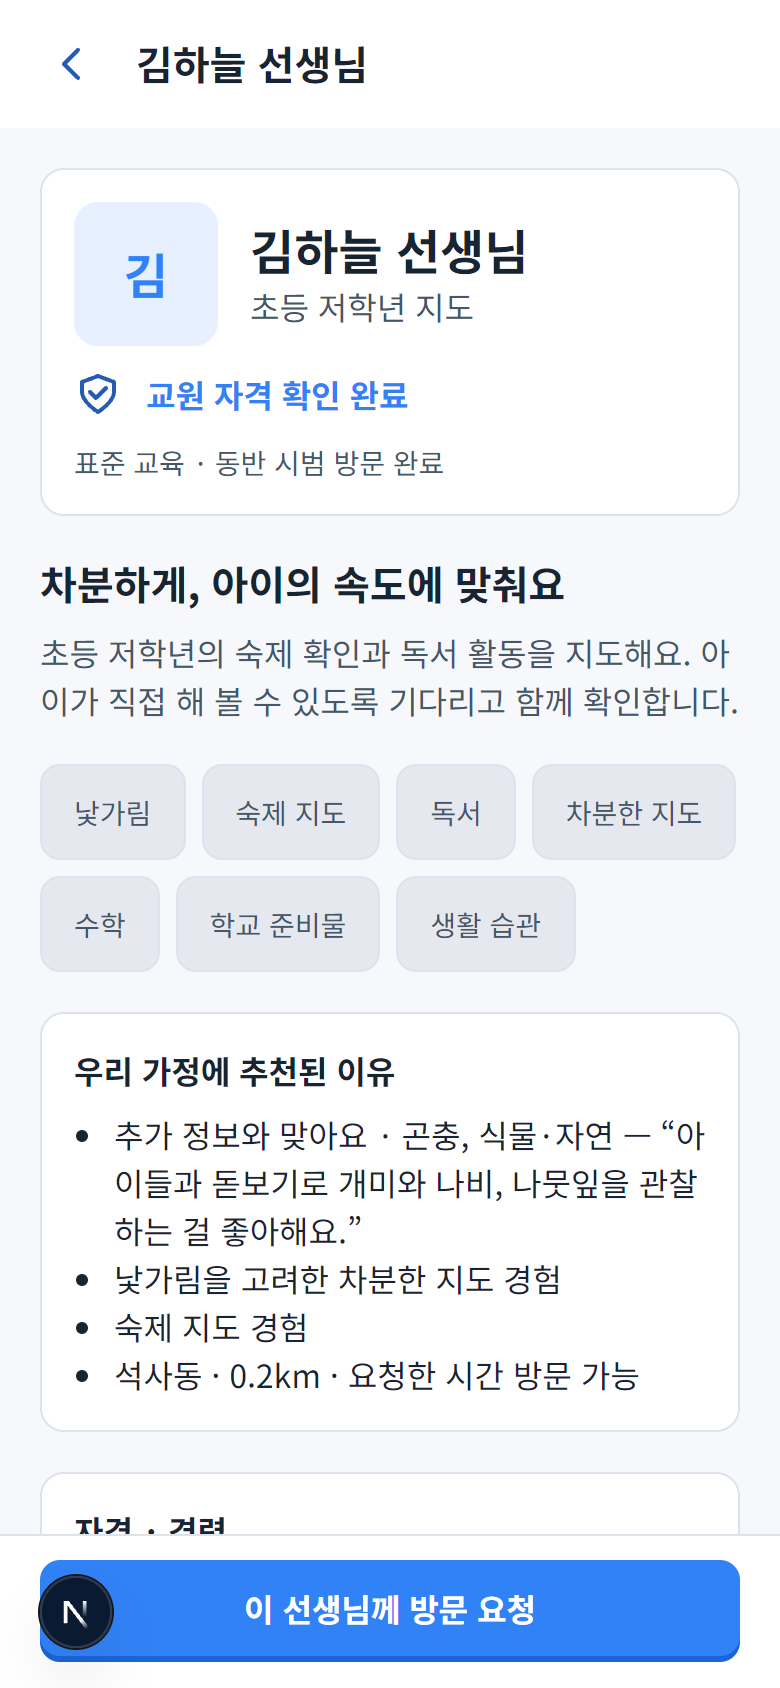
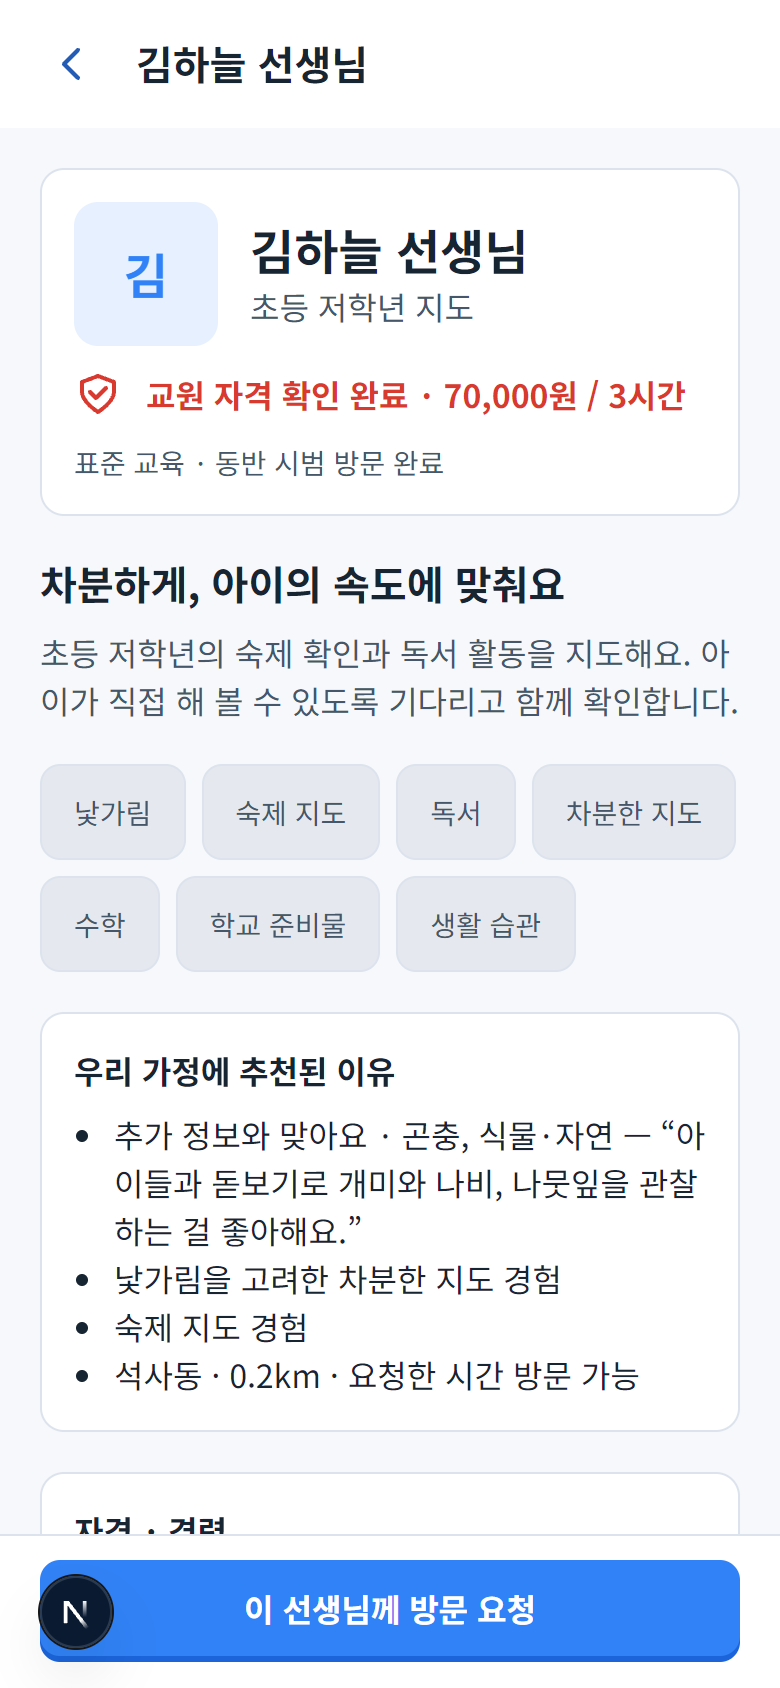
S03 tag colours by kind, S04 % score + qualification tiers with prices, weekend availability
- S03: tag chips coloured by category — blue 성향·특성, green 지도 능력·이력,
  yellow 교과목 — with a small legend.
- S04/S05: match score shown as %, qualification tier coloured
  (교원 자격 red / 아동 지도 자격 blue / 일반 경력·신원 검증 green) with the
  3-hour price per tier (70,000 / 60,000 / 50,000; 정기 −10,000). Prices now
  come from the teacher tier on the API (`price_single`, `price_regular`) and
  are used when creating a visit.
- A04: 토·일 added to available days; seed gains weekend availability and
  four general-tier teachers.

Changed region(s): [[0.5538, 0.2156, 0.8923, 0.2464], [0.1846, 0.2156, 0.5231, 0.2464], [0.0923, 0.2156, 0.1538, 0.2464]]

diff --git a/apps/web/src/app/g/recommend/page.tsx b/apps/web/src/app/g/recommend/page.tsx
@@ -5,8 +5,8 @@ import { useRouter } from "next/navigation";
 import { useEffect, useState } from "react";
 import { Icon } from "@/components/Icon";
 import { Page } from "@/components/shell";
-import { AppBarDetail, Avatar, BottomAction, Button, Card, ErrorText, Loading, cx } from "@/components/ui";
-import { cityOf, loadCriteria, saveCriteria, saveReasons, shortDate, type Criteria } from "@/lib/find";
+import { AppBarDetail, Avatar, BottomAction, Button, Card, ErrorText, Loading, cx, won } from "@/components/ui";
+import { cityOf, loadCriteria, saveCriteria, saveReasons, shortDate, tierOf, type Criteria } from "@/lib/find";
 import { useSession } from "@/lib/session";
 import type { Teacher } from "@/lib/types";
 
@@ -59,6 +59,12 @@ export default function Recommend() {
           <h2 className="t20 font-bold">추천 선생님</h2>
           {list && <span className="t14 text-muted">{list.length}명</span>}
         </div>
+        <p className="t14 flex flex-wrap gap-x-3 gap-y-1 text-muted">
+          <span className="text-tier-red font-bold">● 교원 자격</span>
+          <span className="text-tier-blue font-bold">● 아동 지도 자격</span>
+          <span className="text-tier-green font-bold">● 일반 · 경력·신원 검증</span>
+          <span>· 색이 빨강일수록 금액이 높아요</span>
+        </p>
         <ErrorText>{err}</ErrorText>
         {!list ? <Loading label="조건에 맞는 선생님을 찾는 중이에요" /> : (
           <div className="flex flex-col gap-3 lg:grid lg:grid-cols-2 lg:gap-4">
@@ -72,17 +78,17 @@ export default function Recommend() {
                     <p className="t16 font-bold">{t.name} 선생님</p>
                     <p className="t14 text-muted">{t.headline} · {t.area}{t.distance_km != null ? ` ${t.distance_km}km` : ""}</p>
                   </div>
-                  <span className="t16 font-bold text-brand">{t.score}점</span>
+                  <span className="t16 font-bold text-brand">{t.score}%</span>
                 </div>
                 <ul className="t14 text-muted">
                   {t.reasons.map((r) => (
                     <li key={r} className={r.startsWith("추가 정보") ? "mb-1 rounded-md bg-blue-light px-2 py-1 text-brand" : ""}>{r}</li>
                   ))}
                 </ul>
-                <p className="t14 flex items-center gap-3 text-brand">
-                  <span className="text-brand-deep"><Icon name="shield" /></span>{t.qual_label}
-
-                </p>
+                <div className={cx("t14 flex items-center justify-between rounded-md px-2 py-1.5 font-bold", tierOf(t.qual_type).bg, tierOf(t.qual_type).text)}>
+                  <span className="flex items-center gap-2"><Icon name="shield" />{t.qual_label}</span>
+                  <span>{won(t.price_single)} <span className="font-normal">/ 3시간</span></span>
+                </div>
                 {sel === t.id && (
                   <Link href={`/g/teachers/${t.id}`} className="t14 hidden font-bold text-brand lg:block" onClick={(e) => e.stopPropagation()}>자세히 보기 →</Link>
                 )}

diff --git a/apps/web/src/app/g/find/page.tsx b/apps/web/src/app/g/find/page.tsx
@@ -4,12 +4,11 @@ import { useRouter } from "next/navigation";
 import { useEffect, useState } from "react";
 import { BottomTabs, Page, RoleSwitchLink } from "@/components/shell";
 import { AppBarRoot, BottomAction, Button, Chip, ErrorText, Field, Info, inputCls, textareaCls } from "@/components/ui";
-import { defaultCriteria, endTime, loadCriteria, saveCriteria, type Criteria } from "@/lib/find";
+import { ALL_TAGS, defaultCriteria, endTime, loadCriteria, saveCriteria, tagTone, type Criteria } from "@/lib/find";
 import { locate } from "@/lib/geo";
 import { useLive, useSession } from "@/lib/session";
 import type { Me } from "@/lib/types";
 
-const ALL_TAGS = ["낯가림", "숙제 지도", "독서", "수학", "한글·받아쓰기", "영어", "놀이형 지도", "차분한 지도", "활동적인 아이", "집중력", "생활 습관", "학교 준비물", "미술"];
 const TIMES = ["13:00", "14:00", "15:00", "16:00", "17:00"];
 
 /** S03 · 어떤 선생님을 찾으세요? (+ S03-tags) */
@@ -108,16 +107,21 @@ export default function Find() {
               <p className="t16 text-muted">요청을 적고 ‘요청에서 태그 찾기’를 누르면{"\n"}성향·과목 조건이 여기에 정리돼요.</p>
             )}
             <div className="flex flex-wrap gap-2">
-              {c.tags.map((t) => <Chip key={t} selected onRemove={() => set({ tags: c.tags.filter((x) => x !== t) })}>{t}</Chip>)}
+              {c.tags.map((t) => <Chip key={t} selected tone={tagTone(t)} onRemove={() => set({ tags: c.tags.filter((x) => x !== t) })}>{t}</Chip>)}
               <Chip onClick={() => setAdding((a) => !a)}>+ 태그 추가</Chip>
             </div>
             {adding && (
               <div className="flex flex-wrap gap-2 rounded-xl border border-soft bg-surface p-3">
                 {ALL_TAGS.filter((t) => !c.tags.includes(t)).map((t) => (
-                  <Chip key={t} onClick={() => set({ tags: [...c.tags, t] })}>{t}</Chip>
+                  <Chip key={t} selected tone={tagTone(t)} onClick={() => set({ tags: [...c.tags, t] })}>{t}</Chip>
                 ))}
               </div>
             )}
+            <p className="t14 flex flex-wrap gap-x-3 gap-y-1 text-muted">
+              <span><span className="mr-1 inline-block h-3 w-3 rounded-sm border border-brand bg-blue-light align-[-1px]" />성향·특성</span>
+              <span><span className="mr-1 inline-block h-3 w-3 rounded-sm border border-tag-green-ink bg-tag-green align-[-1px]" />지도 능력·이력</span>
+              <span><span className="mr-1 inline-block h-3 w-3 rounded-sm border border-tag-yellow-ink bg-tag-yellow align-[-1px]" />교과목</span>
+            </p>
           </div>
         </div>
         <BottomAction aboveTabs>

diff --git a/apps/web/src/lib/find.ts b/apps/web/src/lib/find.ts
@@ -60,3 +60,27 @@ export function cityOf(region: string): string {
   const parts = region.split(" ");
   return parts.length >= 2 ? parts.slice(-2).join(" ").replace(/^강원특별자치도 /, "") : region;
 }
+
+/** S03 태그 분류 — 파랑: 아이·선생님 성향, 초록: 지도 능력·이력, 노랑: 교과목 */
+export const TAG_GROUPS = {
+  blue: ["낯가림", "차분한 지도", "활동적인 아이", "집중력", "놀이형 지도"],
+  green: ["숙제 지도", "생활 습관", "학교 준비물"],
+  yellow: ["독서", "수학", "한글·받아쓰기", "영어", "미술"],
+} as const;
+export type TagTone = keyof typeof TAG_GROUPS;
+export const ALL_TAGS: string[] = [...TAG_GROUPS.blue, ...TAG_GROUPS.green, ...TAG_GROUPS.yellow];
+export function tagTone(tag: string): TagTone {
+  if ((TAG_GROUPS.green as readonly string[]).includes(tag)) return "green";
+  if ((TAG_GROUPS.yellow as readonly string[]).includes(tag)) return "yellow";
+  return "blue";
+}
+
+/** 선생님 등급 색: 교원 자격 = 빨강, 아동 지도 자격 = 파랑, 일반(경력·신원 검증) = 초록 */
+export const TIER = {
+  certified: { text: "text-tier-red", bg: "bg-tier-red-bg", border: "border-tier-red", name: "교원 자격" },
+  qualified: { text: "text-tier-blue", bg: "bg-tier-blue-bg", border: "border-tier-blue", name: "아동 지도 자격" },
+  general: { text: "text-tier-green", bg: "bg-tier-green-bg", border: "border-tier-green", name: "일반 · 경력 검증" },
+} as const;
+export function tierOf(qual: string) {
+  return TIER[(qual in TIER ? qual : "general") as keyof typeof TIER];
+}

diff --git a/apps/web/src/components/ui.tsx b/apps/web/src/components/ui.tsx
@@ -34,12 +34,20 @@ export function TextLink({ href, onClick, children, className }: { href?: string
 }
 
 /* ── Chip ── */
-export function Chip({ selected, disabled, children, onClick, onRemove }:
-  { selected?: boolean; disabled?: boolean; children: ReactNode; onClick?: () => void; onRemove?: () => void }) {
+export type ChipTone = "blue" | "green" | "yellow";
+/** 선택된 칩 색: 파랑(성향·특성) · 초록(지도 능력·이력) · 노랑(교과목) */
+const CHIP_TONE: Record<ChipTone, string> = {
+  blue: "bg-blue-light border-brand text-brand",
+  green: "bg-tag-green border-tag-green-ink text-tag-green-ink",
+  yellow: "bg-tag-yellow border-tag-yellow-ink text-tag-yellow-ink",
+};
+
+export function Chip({ selected, disabled, children, onClick, onRemove, tone = "blue" }:
+  { selected?: boolean; disabled?: boolean; children: ReactNode; onClick?: () => void; onRemove?: () => void; tone?: ChipTone }) {
   return (
     <button type="button" disabled={disabled} onClick={onClick}
       className={cx("t14 h-12 px-4 rounded-[10px] border inline-flex items-center gap-1 whitespace-nowrap",
-        selected ? "bg-blue-light border-brand text-brand" : disabled ? "bg-disabled border-soft text-muted" : "bg-surface border-soft text-muted")}>
+        selected ? CHIP_TONE[tone] : disabled ? "bg-disabled border-soft text-muted" : "bg-surface border-soft text-muted")}>
       {children}
       {onRemove && (
         <span role="button" aria-label="태그 빼기" onClick={(e) => { e.stopPropagation(); onRemove(); }} className="ml-0.5 text-[15px] leading-none">×</span>

diff --git a/apps/web/src/app/g/teachers/[id]/page.tsx b/apps/web/src/app/g/teachers/[id]/page.tsx
@@ -3,8 +3,8 @@
 import { use } from "react";
 import { Icon } from "@/components/Icon";
 import { Page } from "@/components/shell";
-import { AppBarDetail, Avatar, BottomAction, Button, Card, Chip, Info, Loading } from "@/components/ui";
-import { loadCriteria, loadReasons } from "@/lib/find";
+import { AppBarDetail, Avatar, BottomAction, Button, Card, Chip, Info, Loading, cx, won } from "@/components/ui";
+import { loadCriteria, loadReasons, tierOf } from "@/lib/find";
 import { useLive } from "@/lib/session";
 import type { Teacher } from "@/lib/types";
 
@@ -31,7 +31,7 @@ export default function TeacherDetail({ params }: { params: Promise<{ id: string
                     <p className="t16 text-muted">{t.headline}</p>
                   </div>
                 </div>
-                <p className="t16 flex items-center gap-3 font-bold text-brand"><span className="text-brand-deep"><Icon name="shield" /></span>{t.qual_label}</p>
+                <p className={cx("t16 flex items-center gap-3 font-bold", tierOf(t.qual_type).text)}><Icon name="shield" />{t.qual_label} · {won(t.price_single)} / 3시간</p>
                 <p className="t14 text-muted">
                   {[t.verified.training && "표준 교육", t.verified.shadow && "동반 시범 방문 완료"].filter(Boolean).join(" · ")}
                 </p>

diff --git a/apps/web/src/app/g/request/[id]/page.tsx b/apps/web/src/app/g/request/[id]/page.tsx
@@ -37,7 +37,7 @@ export default function RequestVisit({ params }: { params: Promise<{ id: string 
     }
   }
 
-  const price = kind === "regular" ? 60000 : 70000;
+  const price = t ? (kind === "regular" ? t.price_regular : t.price_single) : 0;
 
   return (
     <>
@@ -54,8 +54,8 @@ export default function RequestVisit({ params }: { params: Promise<{ id: string 
               <div className="flex flex-col gap-3">
                 <h2 className="t20 font-bold">이용 유형</h2>
                 <div className="flex gap-2">
-                  <Chip selected={kind === "single"} onClick={() => setKind("single")}>단발 70,000원</Chip>
-                  <Chip selected={kind === "regular"} onClick={() => setKind("regular")}>정기 60,000원</Chip>
+                  <Chip selected={kind === "single"} onClick={() => setKind("single")}>단발 {won(t.price_single)}</Chip>
+                  <Chip selected={kind === "regular"} onClick={() => setKind("regular")}>정기 {won(t.price_regular)}</Chip>
                 </div>
                 <p className="t14 text-muted">
                   {kind === "single" ? "단발 · 아이 한 명 · 3시간\n필요할 때 한 번 이용해요." : "같은 선생님과 주 1회 이상 · 4주 이상 예약할 때 적용돼요.\n이번 시연에서는 첫 방문만 요청해요."}

diff --git a/apps/web/src/app/globals.css b/apps/web/src/app/globals.css
@@ -14,6 +14,16 @@
   --color-disabled: #e5e9ef;
   --color-danger: #b3261e;
   --color-blue-light: #e6f0ff;
+  --color-tag-green: #e3f6ec;
+  --color-tag-green-ink: #1f8a5b;
+  --color-tag-yellow: #fff4cc;
+  --color-tag-yellow-ink: #a36f00;
+  --color-tier-red: #d93a2f;
+  --color-tier-red-bg: #fdecea;
+  --color-tier-blue: #3182f6;
+  --color-tier-blue-bg: #e6f0ff;
+  --color-tier-green: #1f8a5b;
+  --color-tier-green-bg: #e3f6ec;
   --color-wait: #fff2cd;
   --color-wait-ink: #775300;
   --color-live: #dcf4f3;

diff --git a/apps/web/src/lib/types.ts b/apps/web/src/lib/types.ts
@@ -8,8 +8,10 @@ export type Teacher = {
   context: string;
   distance_km: number | null;
   context_matched: string[];
-  qual_type: "certified" | "qualified";
+  qual_type: "certified" | "qualified" | "general";
   qual_label: string;
+  price_single: number;
+  price_regular: number;
   qual_kind: string;
   qual_detail: string;
   years: number;

diff --git a/apps/web/src/app/t/schedule/page.tsx b/apps/web/src/app/t/schedule/page.tsx
@@ -10,7 +10,7 @@ import { useLive, useSession } from "@/lib/session";
 import type { Me } from "@/lib/types";
 
 const RADII = [1, 3, 5, 10];
-const DAYS = ["월", "화", "수", "목", "금"];
+const DAYS = ["월", "화", "수", "목", "금", "토", "일"];
 const TIMES = ["13:00", "14:00", "15:00", "16:00"];
 
 /** A04 · 방문 가능 일정 */

diff --git a/apps/api/app/seed.py b/apps/api/app/seed.py
@@ -12,17 +12,18 @@ from sqlalchemy.orm import Session
 from .models import Teacher
 
 WEEK = ["월", "화", "수", "목", "금"]
+WEEKEND = ["토", "일"]
 
 # name, city, area(동), lat, lng, qual_type, qual_detail, years, headline, tags, days, start, rating, context
 POOL: list[tuple] = [
     ("김하늘", "춘천시", "석사동", 37.8531, 127.7489, "certified", "초등학교 정교사(2급) · 초등 담임 12년", 12, "초등 저학년 지도",
-     ["낯가림", "숙제 지도", "독서", "차분한 지도", "수학", "학교 준비물", "생활 습관"], WEEK, "14:00", 4.9,
+     ["낯가림", "숙제 지도", "독서", "차분한 지도", "수학", "학교 준비물", "생활 습관"], WEEK + ["토"], "14:00", 4.9,
      "주말마다 숲 해설 자원봉사를 해요. 아이들과 돋보기로 개미와 나비, 나뭇잎을 관찰하는 걸 좋아해요."),
     ("박다솜", "춘천시", "퇴계동", 37.8556, 127.7317, "certified", "초등학교 정교사(1급) · 퇴직 교원", 28, "독서 활동 · 생활 지도",
      ["독서", "생활 습관", "숙제 지도", "한글·받아쓰기"], ["화", "수", "목", "금"], "14:00", 4.8,
      "성당 성가대에서 20년 노래했어요. 피아노 반주로 동요를 함께 부르면 아이들이 금방 마음을 열어요."),
     ("이서윤", "춘천시", "후평동", 37.8803, 127.7468, "qualified", "보육교사 1급 · 방과후 돌봄 8년", 8, "놀이형 학습 · 저학년 돌봄",
-     ["놀이형 지도", "활동적인 아이", "숙제 지도", "미술"], WEEK, "13:00", 4.7,
+     ["놀이형 지도", "활동적인 아이", "숙제 지도", "미술"], WEEK + WEEKEND, "13:00", 4.7,
      "그림 그리기와 종이접기, 클레이 만들기를 좋아해요. 아이가 오늘 본 것을 함께 만들어 봐요."),
     ("최민준", "춘천시", "효자동", 37.8693, 127.7375, "certified", "초등학교 정교사(2급) · 임용 준비", 2, "수학 · 숙제 지도",
      ["수학", "숙제 지도", "집중력"], ["월", "화", "수", "목"], "15:00", 4.7,
@@ -69,6 +70,19 @@ POOL: list[tuple] = [
     ("남지호", "화천군", "화천읍", 38.1061, 127.7082, "certified", "초등학교 정교사(1급) · 퇴직 교원", 32, "학교 적응 · 생활 지도",
      ["생활 습관", "학교 준비물", "낯가림"], WEEK, "14:00", 4.9,
      "작은 학교에서 산과 냇가를 교실 삼아 가르쳤어요. 숙제를 마치고 냇가 생물을 관찰해요."),
+    # 일반인(자격증 없음): 범죄경력·신원·경력 검증 + 표준 교육 이수
+    ("문서준", "춘천시", "석사동", 37.8502, 127.7510, "general", "교육학과 재학 · 방과후 보조교사 2년", 2, "숙제 · 놀이 지도",
+     ["숙제 지도", "놀이형 지도", "활동적인 아이"], ["월", "수", "금", "토", "일"], "14:00", 4.6,
+     "주말마다 캠핑을 가요. 텐트 치기, 곤충 채집통 만들기 같은 바깥 활동을 좋아해요."),
+    ("배수아", "춘천시", "퇴계동", 37.8572, 127.7349, "general", "두 아이 양육 경험 · 돌봄 품앗이 4년", 4, "생활 습관 · 준비물",
+     ["생활 습관", "학교 준비물", "낯가림"], WEEK + ["토"], "13:00", 4.7,
+     "동네 아이들과 베이킹을 자주 해요. 머핀 반죽을 나눠 담으며 숫자 세기 놀이를 해요."),
+    ("권태양", "원주시", "무실동", 37.3350, 127.9280, "general", "체육학과 졸업 · 유소년 체육 강사 3년", 3, "바깥 놀이 · 운동",
+     ["활동적인 아이", "놀이형 지도", "집중력"], ["화", "목", "토", "일"], "15:00", 4.6,
+     "줄넘기와 축구를 가르쳐요. 몸을 충분히 움직인 뒤 앉아서 숙제하는 루틴을 만들어요."),
+    ("신예은", "강릉시", "교동", 37.7651, 128.8930, "general", "미술 전공 · 어린이 미술 수업 보조 2년", 2, "미술 · 만들기",
+     ["미술", "놀이형 지도", "차분한 지도"], ["월", "수", "토", "일"], "14:00", 4.5,
+     "바다 유리와 조개로 모빌을 만들어요. 그림일기 쓰는 습관을 함께 들여요."),
 ]
 
 DEFAULT_TEACHER = "김하늘"

diff --git a/apps/api/app/api.py b/apps/api/app/api.py
@@ -52,8 +52,15 @@ def city(region: str) -> str:
     return region.split()[-1] if region else ""
 
 
-QUAL_LABEL = {"certified": "교원 자격 확인 완료", "qualified": "아동 지도 자격 확인 완료"}
-QUAL_KIND = {"certified": "교원 자격", "qualified": "준자격 · 경력 검증"}
+QUAL_LABEL = {"certified": "교원 자격 확인 완료", "qualified": "아동 지도 자격 확인 완료", "general": "경력·신원 확인 완료"}
+QUAL_KIND = {"certified": "교원 자격", "qualified": "준자격 · 경력 검증", "general": "일반 · 경력·신원 검증"}
+# 3시간 단발 기준 금액: 교원 자격 > 아동 지도 자격 > 일반(경력·신원 검증)
+PRICE_SINGLE = {"certified": 70000, "qualified": 60000, "general": 50000}
+
+
+def price_of(t: Teacher, kind: str) -> int:
+    base = PRICE_SINGLE.get(t.qual_type, 60000)
+    return base - 10000 if kind == "regular" else base
 
 
 def teacher_out(t: Teacher, score: int | None = None, reasons: list[str] | None = None, extra: dict | None = None) -> dict:
@@ -62,6 +69,7 @@ def teacher_out(t: Teacher, score: int | None = None, reasons: list[str] | None 
         "radius_km": t.radius_km, "context": t.context,
         "qual_type": t.qual_type, "qual_label": QUAL_LABEL.get(t.qual_type, "자격 확인 완료"),
         "qual_kind": QUAL_KIND.get(t.qual_type, ""), "qual_detail": t.qual_detail, "years": t.years,
+        "price_single": price_of(t, "single"), "price_regular": price_of(t, "regular"),
         "headline": t.headline, "title": t.title, "intro": t.intro, "experience": t.experience,
         "tags": t.tags, "days": t.days, "start_time": t.start_time, "rating": t.rating,
         "verified": {"docs": t.verified_docs, "crime": t.verified_crime, "training": t.trained, "shadow": t.shadow_visit},
@@ -305,7 +313,7 @@ def create_visit(body: VisitIn, user: User = Depends(auth.require("guardian")), 
     if not t:
         raise HTTPException(404, "선생님을 찾을 수 없어요.")
     v = Visit(guardian_id=user.id, teacher_id=t.id, date=body.date, start=body.start,
-              kind=body.kind, price=60000 if body.kind == "regular" else 70000, note=body.note, tags=body.tags)
+              kind=body.kind, price=price_of(t, body.kind), note=body.note, tags=body.tags)
     db.add(v)
     db.commit()
     changed(v)

diff --git a/apps/api/tests/test_flow.py b/apps/api/tests/test_flow.py
@@ -82,7 +82,8 @@ def test_context_adds_matching_experience():
         assert top["name"] in ("박다솜", "조은솔") and "음악·노래" in top["context_matched"]
         assert top["reasons"][0].startswith("추가 정보와 맞아요")
         # rule-based basics still apply: everyone shown is verified and nearby first
-        assert all(t["qual_type"] in ("certified", "qualified") for t in ctx)
+        assert all(t["qual_type"] in ("certified", "qualified", "general") for t in ctx)
+        assert {t["qual_type"]: t["price_single"] for t in ctx}.get("certified", 70000) == 70000
         assert ctx[0]["distance_km"] is not None and ctx[0]["distance_km"] < 5
 
 
